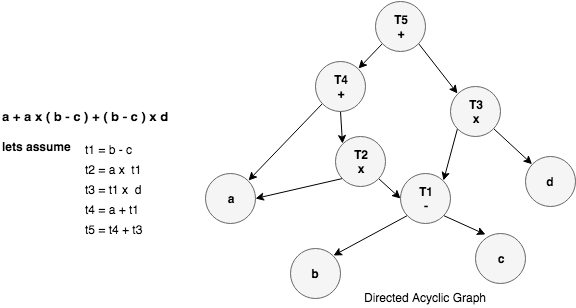
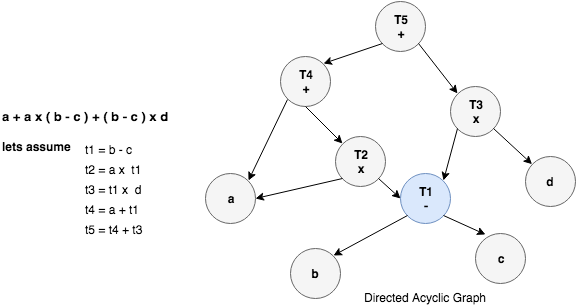
update imgs

diff --git a/6/README.md b/6/README.md
@@ -49,6 +49,8 @@ but also they might include different computation, storage and networking servic
 you will need to schedule these services in terms of workflow. Salpchain is an on-chain workflow 
 management system in Ocean protocol that manages the scheduling and execution of workflows on Ethereum blockchain.
 
+![On-chain Workflow](imgs/onchain-workflow.png)
+
 ## 4. Introduction to WMS <a name="wms"></a>
 
 Workflows are a sequence of tasks where each task scheduled and triggered by an event. Mainly we use workflows to handle complex 
@@ -91,8 +93,9 @@ reference back to itself. And the magic what DAG does is if you can put any inpu
 see that this will flow downstream of this task and it will be available for next tasks. This keeps your workflow more modular by using the same tasks in 
 different positions in a workflow.
 
-As shown below we can notice that all operations are moving in one direction from top to down. You can use 
-tree data structure but DAGs are more optimized to use the same operation multiple times.
+As shown below we can notice that all operations are moving in one direction from top to bottom. You can use 
+tree data structure but DAGs are more optimized to use the same operation multiple times. For instance we use 
+<code>T1</code> called twice during workflow execution.
 
 ![DAG Example](imgs/DAG.png)
 
